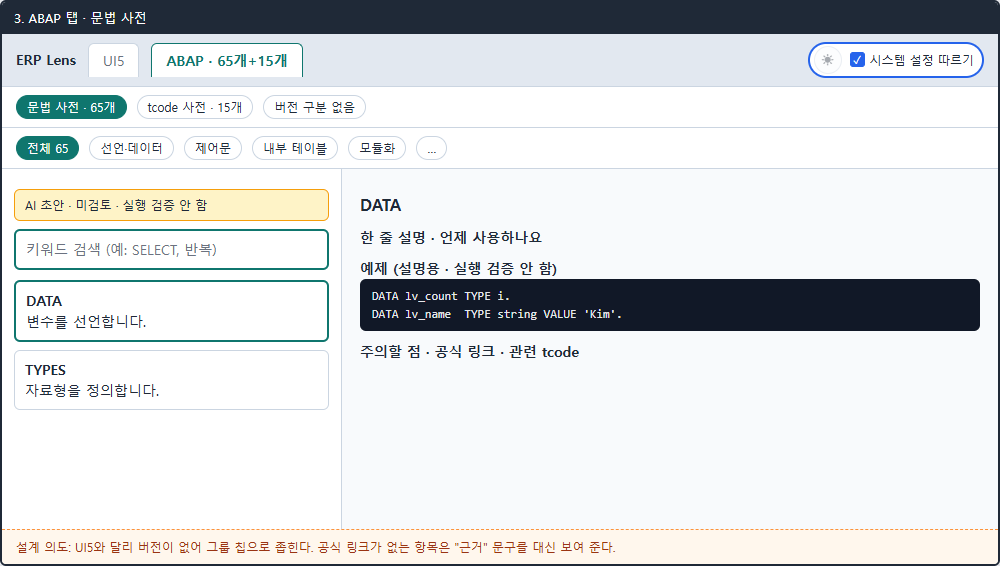
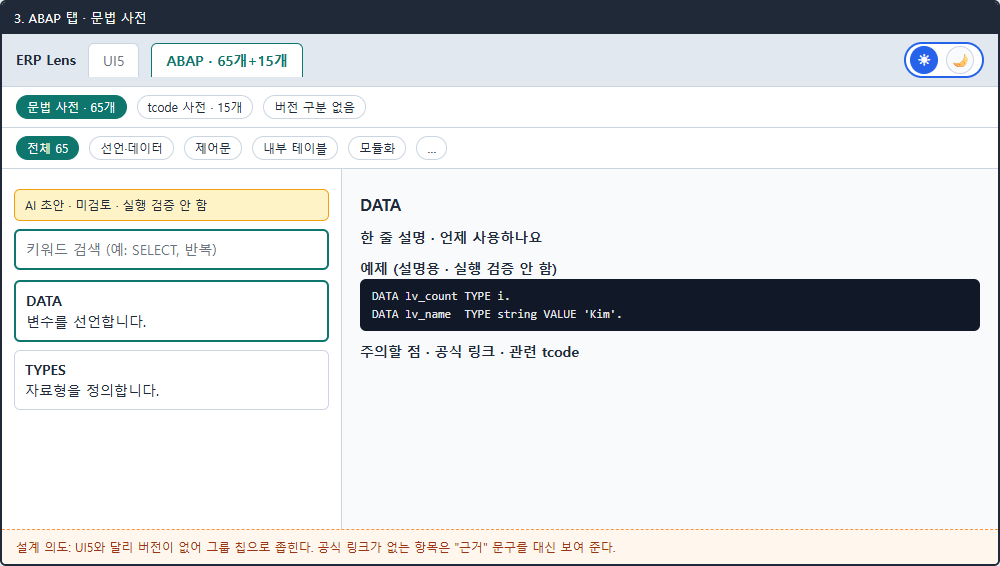
목업 수정: 테마 선택에서 체크박스 제거, 첫 방문은 시스템 설정 모드, 낮/밤 버튼 2개로 변경

Changed region(s): [[0.806, 0.0601, 0.992, 0.1502]]

diff --git a/docs/mockups/screens.html b/docs/mockups/screens.html
@@ -44,10 +44,8 @@
   .tctl { margin-left:auto; display:flex; align-items:center; gap:8px; padding:2px 8px 2px 4px; border:1px solid var(--line); border-radius:999px; background:var(--box); font-size:12px; }
   .tctl.hl { border:2px solid var(--accent); }
   .ibtn { display:inline-flex; width:28px; height:28px; align-items:center; justify-content:center; border:1px solid var(--line); border-radius:50%; background:var(--bg); font-size:15px; }
-  .ibtn.off { opacity:.4; }
-  .sys { display:flex; align-items:center; gap:5px; }
-  .cb { display:inline-flex; width:15px; height:15px; align-items:center; justify-content:center; border:1.5px solid var(--mute); border-radius:3px; font-size:11px; line-height:1; }
-  .cb.on { background:var(--accent); border-color:var(--accent); color:var(--on); }
+  .ibtn.sel, :root:not([data-theme="dark"]) .ibtn.l, :root[data-theme="dark"] .ibtn.d { background:var(--accent); border-color:var(--accent); color:var(--on); }
+  .demo .ibtn.sel { background:var(--accent); border-color:var(--accent); }
   .demo { display:flex; align-items:center; gap:8px; margin:6px 0; padding:4px 8px; border:1px solid var(--line); border-radius:999px; width:max-content; font-size:12px; }
   .st { border:1px solid var(--line); border-radius:8px; padding:10px 14px; background:var(--box); min-width:260px; flex:1; }
 </style>
@@ -57,7 +55,7 @@
 
 <section class="screen" id="m1">
   <div class="cap">1. 첫 화면 · UI5 탭 · 이름·메서드 검색</div>
-  <div class="bar"><span class="logo">ERP Lens</span><span class="tab on">UI5 · 한국어 API 탐색</span><span class="tab abap">ABAP · 기본 문법 · tcode</span><span class="tctl hl"><span class="ibtn off" title="시스템 설정을 따르는 중">☀</span><label class="sys"><span class="cb on">✓</span> 시스템 설정 따르기</label></span></div>
+  <div class="bar"><span class="logo">ERP Lens</span><span class="tab on">UI5 · 한국어 API 탐색</span><span class="tab abap">ABAP · 기본 문법 · tcode</span><span class="tctl hl"><span class="ibtn l" title="라이트 모드">☀</span><span class="ibtn d" title="다크 모드">🌙</span></span></div>
   <div class="sub"><span class="chip">UI5 버전 ▼ 1.154</span><span class="chip on">이름·메서드 검색</span><span class="chip">기능으로 추천</span><span class="chip">API 탐색</span><span class="chip">문서 가이드</span></div>
   <div class="cols">
     <div class="left"><div class="input">클래스·메서드 이름 (예: Table, setText)</div></div>
@@ -74,7 +72,7 @@
 
 <section class="screen" id="m2">
   <div class="cap">2. 검색 결과 + API 상세 (왼쪽 후보, 오른쪽 상세)</div>
-  <div class="bar"><span class="logo">ERP Lens</span><span class="tab on">UI5</span><span class="tab abap">ABAP</span><span class="tctl hl"><span class="ibtn off" title="시스템 설정을 따르는 중">☀</span><label class="sys"><span class="cb on">✓</span> 시스템 설정 따르기</label></span></div>
+  <div class="bar"><span class="logo">ERP Lens</span><span class="tab on">UI5</span><span class="tab abap">ABAP</span><span class="tctl hl"><span class="ibtn l" title="라이트 모드">☀</span><span class="ibtn d" title="다크 모드">🌙</span></span></div>
   <div class="sub"><span class="chip on">전체 227</span><span class="chip">클래스 153</span><span class="chip">메서드 31</span><span class="chip">속성 31</span><span class="chip">이벤트 5</span></div>
   <div class="cols">
     <div class="left">
@@ -95,7 +93,7 @@
 
 <section class="screen" id="m3">
   <div class="cap">3. ABAP 탭 · 문법 사전</div>
-  <div class="bar"><span class="logo">ERP Lens</span><span class="tab">UI5</span><span class="tab on abap">ABAP · 65개+15개</span><span class="tctl hl"><span class="ibtn off" title="시스템 설정을 따르는 중">☀</span><label class="sys"><span class="cb on">✓</span> 시스템 설정 따르기</label></span></div>
+  <div class="bar"><span class="logo">ERP Lens</span><span class="tab">UI5</span><span class="tab on abap">ABAP · 65개+15개</span><span class="tctl hl"><span class="ibtn l" title="라이트 모드">☀</span><span class="ibtn d" title="다크 모드">🌙</span></span></div>
   <div class="sub"><span class="chip on abap">문법 사전 · 65개</span><span class="chip">tcode 사전 · 15개</span><span class="chip">버전 구분 없음</span></div>
   <div class="sub"><span class="chip on abap">전체 65</span><span class="chip">선언·데이터</span><span class="chip">제어문</span><span class="chip">내부 테이블</span><span class="chip">모듈화</span><span class="chip">…</span></div>
   <div class="cols">
@@ -119,7 +117,7 @@ DATA lv_name  TYPE string VALUE 'Kim'.</div>
 
 <section class="screen" id="m4">
   <div class="cap">4. ABAP 탭 · tcode 사전 (하고 싶은 일 또는 /n 명령으로 검색)</div>
-  <div class="bar"><span class="logo">ERP Lens</span><span class="tab">UI5</span><span class="tab on abap">ABAP</span><span class="tctl hl"><span class="ibtn off" title="시스템 설정을 따르는 중">☀</span><label class="sys"><span class="cb on">✓</span> 시스템 설정 따르기</label></span></div>
+  <div class="bar"><span class="logo">ERP Lens</span><span class="tab">UI5</span><span class="tab on abap">ABAP</span><span class="tctl hl"><span class="ibtn l" title="라이트 모드">☀</span><span class="ibtn d" title="다크 모드">🌙</span></span></div>
   <div class="sub"><span class="chip">문법 사전</span><span class="chip on abap">tcode 사전 · 15개</span></div>
   <div class="cols">
     <div class="left">
@@ -136,24 +134,21 @@ DATA lv_name  TYPE string VALUE 'Kim'.</div>
   <p class="ann">설계 의도: "/nse38" 처럼 명령을 붙여 쓰면 명령(/n)과 tcode(SE38)로 나누어 설명한다.</p>
 </section>
 <section class="screen" id="m5">
-  <div class="cap">5. 테마 선택 (새 기능) · 낮/밤 아이콘 버튼 + "시스템 설정 따르기" 체크박스</div>
-  <div class="bar"><span class="logo">ERP Lens</span><span class="tab on">UI5</span><span class="tab abap">ABAP</span><span class="tctl hl"><span class="ibtn off">☀</span><label class="sys"><span class="cb on">✓</span> 시스템 설정 따르기</label></span></div>
+  <div class="cap">5. 테마 선택 (새 기능) · 낮/밤 아이콘 버튼 2개 (체크박스 없음)</div>
+  <div class="bar"><span class="logo">ERP Lens</span><span class="tab on">UI5</span><span class="tab abap">ABAP</span><span class="tctl hl"><span class="ibtn l" title="라이트 모드">☀</span><span class="ibtn d" title="다크 모드">🌙</span></span></div>
   <div class="states">
-    <div class="st"><b>① 체크함 (기본값)</b>
-      <div class="demo"><span class="ibtn off">🌙</span><label class="sys"><span class="cb on">✓</span> 시스템 설정 따르기</label></div>
-      <div class="muted">컴퓨터가 다크면 다크, 라이트면 라이트로 보입니다. 아이콘은 지금 보이는 모드를 알려 주기만 하고 흐리게 표시되며 눌러도 바뀌지 않습니다.</div></div>
-    <div class="st"><b>② 체크 해제 + 라이트</b>
-      <div class="demo"><span class="ibtn">☀</span><label class="sys"><span class="cb"></span> 시스템 설정 따르기</label></div>
-      <div class="muted">항상 밝게 보입니다. 아이콘(해)을 누르면 ③으로 바뀝니다.</div></div>
-    <div class="st"><b>③ 체크 해제 + 다크</b>
-      <div class="demo"><span class="ibtn">🌙</span><label class="sys"><span class="cb"></span> 시스템 설정 따르기</label></div>
-      <div class="muted">항상 어둡게 보입니다. 아이콘(달)을 누르면 ②로 바뀝니다.</div></div>
+    <div class="st"><b>① 처음 들어왔을 때</b>
+      <div class="demo"><span class="ibtn sel">☀</span><span class="ibtn">🌙</span></div>
+      <div class="muted">저장된 선택이 없으면 컴퓨터의 시스템 설정 모드로 보입니다. 라이트면 해, 다크면 달 버튼이 눌린 상태로 표시됩니다.</div></div>
+    <div class="st"><b>② 버튼을 눌렀을 때</b>
+      <div class="demo"><span class="ibtn">☀</span><span class="ibtn sel">🌙</span></div>
+      <div class="muted">누른 모드로 바로 바뀌고, 그 선택이 이 브라우저에 저장되어 다음 방문에도 유지됩니다.</div></div>
   </div>
   <div class="states">
-    <div class="st"><b>동작 규칙</b><div class="muted">· 체크를 해제하면 지금 보이는 모드 그대로 시작하고, 이후 아이콘으로 라이트↔다크를 바꿉니다<br>· 다시 체크하면 시스템 설정을 따릅니다<br>· 선택은 이 브라우저에만 저장(서버·계정 없음). 저장이 막혀도 화면은 정상<br>· 아이콘만 있으면 뜻이 안 보이므로 마우스를 올리면 "라이트로 전환"/"다크로 전환" 안내, 화면 낭독기용 이름도 같은 글자<br>· 키보드(Tab → Space/Enter)로 둘 다 조작 가능</div></div>
-    <div class="st"><b>화면에 영향 없는 곳</b><div class="muted">예제 실행 창(격리된 iframe)과 보안 설정은 그대로입니다. 색 팔레트도 지금 다크 색을 그대로 씁니다.</div></div>
+    <div class="st"><b>동작 규칙</b><div class="muted">· 선택하기 전에는 시스템 설정을 따르고, 컴퓨터의 모드가 바뀌면 같이 바뀝니다<br>· 한 번 버튼으로 고르면 그 선택이 우선입니다<br>· 선택은 이 브라우저에만 저장(서버·계정 없음). 저장이 막혀도 화면은 정상, 선택만 유지 안 됨<br>· 눌린 버튼은 색뿐 아니라 눌림 상태(aria-pressed)로도 알리고, 마우스를 올리면 "라이트 모드"/"다크 모드" 안내가 뜹니다<br>· 키보드(Tab → Space/Enter)로 조작 가능</div></div>
+    <div class="st"><b>알려 둔 한계</b><div class="muted">한 번 고른 뒤에는 "시스템 설정 따르기"로 되돌리는 버튼이 없습니다. 브라우저의 사이트 데이터를 지우면 처음 상태로 돌아갑니다.<br><br>화면에 영향 없는 곳: 예제 실행 창(격리된 iframe), 보안 설정, 색 팔레트.</div></div>
   </div>
-  <p class="ann">설계 의도: 한눈에 뜻이 통하는 아이콘 하나로 직접 고르고, "시스템 설정 따르기"는 체크박스로 분리해 기본 동작(시스템을 따름)을 잃지 않게 한다.</p>
+  <p class="ann">설계 의도: 첫 방문은 시스템 설정 그대로, 바꾸고 싶을 때만 아이콘 2개 중 하나를 누른다. 단계가 둘뿐이라 설명 없이 쓸 수 있다.</p>
 </section>
 </body>
 </html>
